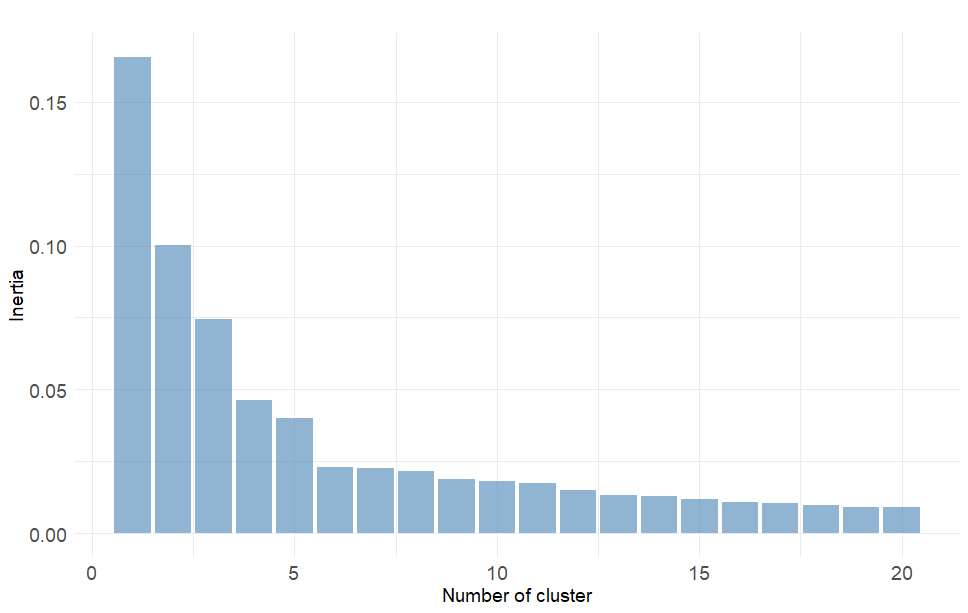
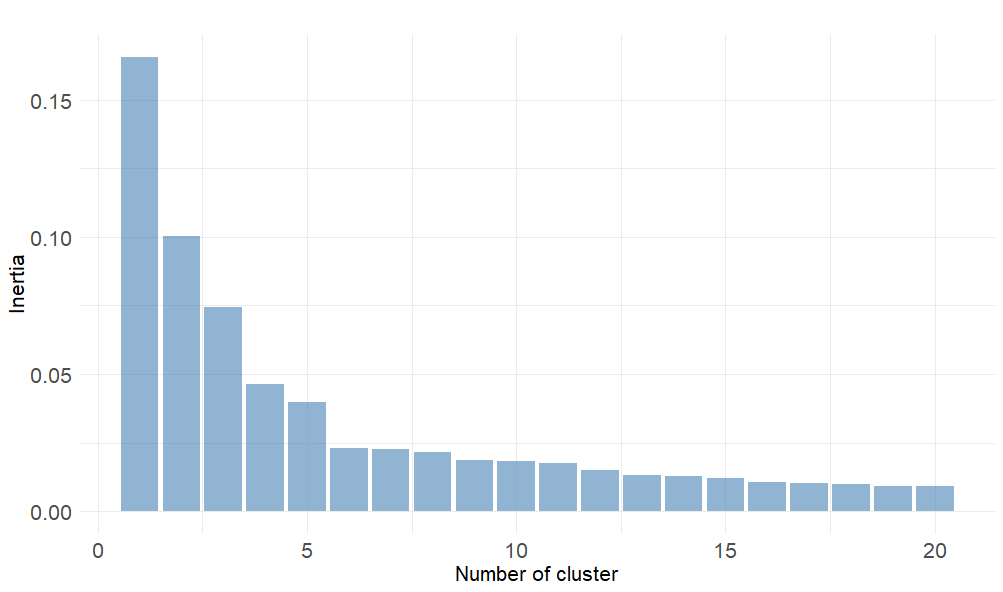
Update book.

diff --git a/docs/5.2-portfolio-segmentation.html b/docs/5.2-portfolio-segmentation.html
@@ -220,7 +220,7 @@ div.csl-indent {
 <p class="caption">
 Figure 5.1: Variance explained and cumulated variance after MCA
 </p>
-<img src="imgs/mca_screeplot.png" alt="Variance explained and cumulated variance after MCA" width="507" />
+<img src="imgs/mca_screeplot.png" alt="Variance explained and cumulated variance after MCA" width="545" />
 </div>
 <p>Now that the 10 continuous axes are identified, the next step consists in retrieving the customers’ coordinates onto those axes to then perform cluster analysis.</p>
 <div style="border: 0px;overflow-x: scroll; width:100%; ">
@@ -455,7 +455,7 @@ Dim 10
 <p class="caption">
 Figure 5.2: Relative gains in between-cluster inertia given the partition
 </p>
-<img src="imgs/btw_inertia.png" alt="Relative gains in between-cluster inertia given the partition" width="484" />
+<img src="imgs/btw_inertia.png" alt="Relative gains in between-cluster inertia given the partition" width="502" />
 </div>
 </div>
 <div id="cluster-description-and-visualization" class="section level4 unnumbered">
